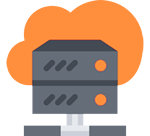
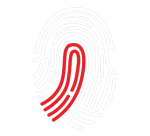
kl

diff --git a/discovery.html b/discovery.html
@@ -146,7 +146,7 @@
                         <a href="research.html"> <div class="aicon aicon1"><img src="images/aicon1.png" alt=""></a></div>
                         <a href="business-ready-to-sell.html"> <div class="aicon aicon2"><img src="images/aicon2.png" alt=""></a></div>
                         <a href="mundi.html"> <div class="aicon aicon3"><img src="images/aicon3.png" alt=""></a></div>
-                        <div class="aicon aicon4"><img src="images/aicon4.png" alt=""></div>
+                        <a href="identity.html"><div class="aicon aicon4"><img src="images/aicon4.png" alt=""></a></div>
                         <div class="aicon aicon-main">
                             <svg xmlns="http://www.w3.org/2000/svg" xmlns:xlink="http://www.w3.org/1999/xlink" viewBox="0 0 134 38" width="124px" height="35px" class="logo">
                                 <text kerning="auto" font-family="Rubik" fill="rgb(255, 255, 255)" transform="matrix( 11.051445195489, 0, 0, 11.0388026563729,0.08427829227281, 28.538802656373)" font-size="3.46px">Discovery</text>

diff --git a/business-ready-to-sell.html b/business-ready-to-sell.html
@@ -354,7 +354,7 @@ atque corrupti quos dolores et quas molestias.</p>
                         </div>
                         <div class="pricing-title">Integral plan</div>
                         <div class="price-title">Starting from</div>
-                        <div class="pricing-price">$350 - $700</div>
+                        <div class="pricing-price">$350 to $700</div>
                         <div class="price-title" style="
                         font-size: 11px;
                     ">$150 annual renewal to maintain services, $120 for our affiliates</div>
